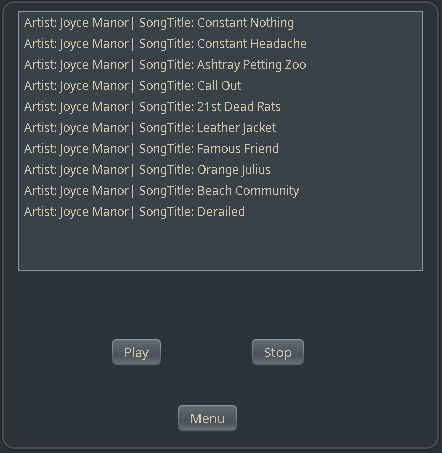
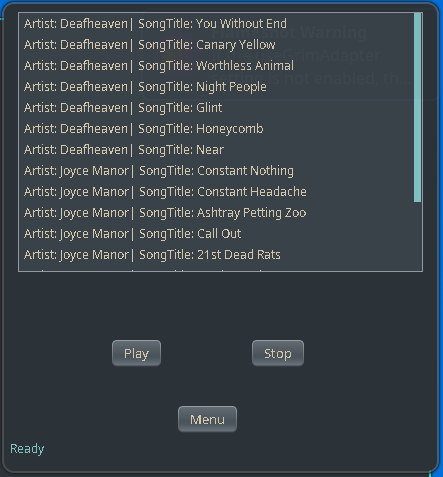
quality-of-life-changes

diff --git a/src/Mp3Frame.java b/src/Mp3Frame.java
@@ -5,6 +5,9 @@ import java.io.FileNotFoundException;
 import javax.swing.DefaultListModel;
 import java.util.Collections;
 import java.awt.Color;
+import javax.swing.JLabel;
+import javax.swing.SwingUtilities;
+import javax.swing.JButton;
 
 /**
  * This class was partially created with the NetBeans IDE.
@@ -12,17 +15,23 @@ import java.awt.Color;
  * @author ryandielhenn
  */
 public class Mp3Frame extends javax.swing.JFrame {
-    private static final Color BG_1 = new Color(43, 51, 57);       // #2b3339 - main background
-    private static final Color BG_2 = new Color(57, 66, 72);       // Slightly lighter for buttons/inputs
-    private static final Color FG = new Color(211, 198, 170);      // #d3c6aa - text
-    private static final Color GREEN = new Color(167, 192, 128);   // #a7c080 - accent
-    private static final String UI_FONT = "Fira Code Nerd Font";
     private Thread playThread;
+    
+    private static final Color BG_1 = new Color(43, 51, 57);       // main background
+    private static final Color BG_2 = new Color(57, 66, 72);       // Slightly lighter for buttons/inputs
+    private static final Color FG = new Color(211, 198, 170);      // text
+    private static final Color GREEN = new Color(167, 192, 128);   // accent
+    private static final Color TEAL = new Color(128, 192, 192);
+    private static final String UI_FONT = "Fira Code Nerd Font";
+    private JLabel statusLabel;
     /**
      * Creates new form Mp3Frame
      */
     public Mp3Frame() {
         initComponents();
+        setTitle("Mp3Player");
+        java.awt.Dimension screenSize = java.awt.Toolkit.getDefaultToolkit().getScreenSize();
+        setLocation(screenSize.width - getWidth() - 4, 60);
         addWindowListener(new java.awt.event.WindowAdapter() {
             @Override
             public void windowClosing(java.awt.event.WindowEvent windowEvent) {
@@ -36,6 +45,8 @@ public class Mp3Frame extends javax.swing.JFrame {
      */
     private void initComponents() {
         // Initialize components
+        statusLabel = new JLabel("Ready");
+        statusLabel.setForeground(TEAL);
         mainPanel = new javax.swing.JPanel();
         menuPanel = new javax.swing.JPanel();
         jLabel1 = new javax.swing.JLabel();
@@ -144,7 +155,7 @@ public class Mp3Frame extends javax.swing.JFrame {
         songBtn.addActionListener(evt -> songBtnActionPerformed(evt));
         
         jLabel2.setFont(new java.awt.Font(UI_FONT, 0, 18));
-        jLabel2.setForeground(FG);
+        jLabel2.setForeground(GREEN);
         jLabel2.setHorizontalAlignment(javax.swing.SwingConstants.CENTER);
         jLabel2.setText("Sort By...");
         
@@ -190,7 +201,32 @@ public class Mp3Frame extends javax.swing.JFrame {
             }
         });
         jScrollPane1.setViewportView(songListPane);
-        
+       // Style the scrollbar
+        jScrollPane1.getVerticalScrollBar().setUI(new javax.swing.plaf.basic.BasicScrollBarUI() {
+            @Override
+            protected void configureScrollBarColors() {
+                this.thumbColor = TEAL;
+                this.trackColor = BG_2;
+            }
+            
+            @Override
+            protected JButton createDecreaseButton(int orientation) {
+                return createZeroButton();
+            }
+            
+            @Override
+            protected JButton createIncreaseButton(int orientation) {
+                return createZeroButton();
+            }
+            
+            private JButton createZeroButton() {
+                JButton button = new JButton();
+                button.setPreferredSize(new java.awt.Dimension(0, 0));
+                return button;
+            }
+        });
+
+    jScrollPane1.getVerticalScrollBar().setPreferredSize(new java.awt.Dimension(8, 0)); 
         playBtn.setText("Play");
         playBtn.setFont(new java.awt.Font(UI_FONT, 0, 13));
         playBtn.setBackground(BG_1);
@@ -253,14 +289,21 @@ public class Mp3Frame extends javax.swing.JFrame {
                 .addContainerGap()
                 .addComponent(mainPanel, javax.swing.GroupLayout.DEFAULT_SIZE, javax.swing.GroupLayout.DEFAULT_SIZE, Short.MAX_VALUE)
                 .addContainerGap())
+            .addGroup(layout.createSequentialGroup()
+                .addContainerGap()
+                .addComponent(statusLabel, javax.swing.GroupLayout.DEFAULT_SIZE, 400, Short.MAX_VALUE)
+                .addContainerGap())
+
         );
         layout.setVerticalGroup(
             layout.createParallelGroup(javax.swing.GroupLayout.Alignment.LEADING)
-            .addGroup(javax.swing.GroupLayout.Alignment.TRAILING, layout.createSequentialGroup()
+            .addGroup(layout.createSequentialGroup()
                 .addContainerGap()
                 .addComponent(mainPanel, javax.swing.GroupLayout.DEFAULT_SIZE, javax.swing.GroupLayout.DEFAULT_SIZE, Short.MAX_VALUE)
                 .addPreferredGap(javax.swing.LayoutStyle.ComponentPlacement.UNRELATED)
                 .addComponent(menuBtn)
+                .addPreferredGap(javax.swing.LayoutStyle.ComponentPlacement.RELATED)
+                .addComponent(statusLabel)
                 .addGap(14, 14, 14))
         );
     }
@@ -279,11 +322,20 @@ public class Mp3Frame extends javax.swing.JFrame {
                 CardLayout card = (CardLayout)mainPanel.getLayout();
                 card.show(mainPanel, "panelTwo");
             }catch (FileNotFoundException fnf){
-                //System.out.println(fnf.getStackTrace());
+                setStatus("Path not found");
             }
+        } else {
+            setStatus("Invalid path: " + absPathTextField.getText());
         }
-
     }  
+
+    private void setStatus(String message) {
+        SwingUtilities.invokeLater(() -> {
+            if (statusLabel != null) {
+                statusLabel.setText(message);
+            }
+        });
+    }
 
     /**
      * Method to handle user pressing the Menu button
@@ -362,10 +414,8 @@ public class Mp3Frame extends javax.swing.JFrame {
     // Add this as a class field at the top with your other variables
     private java.lang.Process currentProcess = null;
 
-    // Your playSong method
     private void playSong() {  
         stop();
-
         if (playThread != null && playThread.isAlive()) {
             try {
                 playThread.join(500);
@@ -373,11 +423,10 @@ public class Mp3Frame extends javax.swing.JFrame {
                 e.printStackTrace();
             }
         }
-
         index = songListPane.getSelectedIndex();
         
         if (index == -1) {
-            //System.out.println("No song selected");
+            setStatus("No song selected");
             return;
         }
         
@@ -389,13 +438,24 @@ public class Mp3Frame extends javax.swing.JFrame {
                     try { 
                         MP3File fileAtIndex = songList.get(index);
                         String path = fileAtIndex.getAbsPath();
+                        String fileName = new File(path).getName();
+                        
+                        setStatus("Playing: " + fileName);
+                        
                         ProcessBuilder pb = new ProcessBuilder("mpg123", "-q", path);
                         currentProcess = pb.start();
-                        // Wait for the process to finish
+                        
                         int exitCode = currentProcess.waitFor();
-                        //System.out.println("Finished playing (exit code: " + exitCode + ")");
+                        
+                        // Only show status if we're still running
+                        if (isRunning && index < songList.size() - 1) {
+                            setStatus("Ready");
+                        } else if (isRunning) {
+                            setStatus("Playlist finished");
+                        }
                         
                     } catch(Exception e) {
+                        setStatus("Error playing song");
                         e.printStackTrace();
                     }
                     
@@ -407,7 +467,6 @@ public class Mp3Frame extends javax.swing.JFrame {
         };
         playThread.start();         
     }
-
     /**
     * Method to handle user pressing the Stop button
     */

diff --git a/README.md b/README.md
@@ -10,6 +10,15 @@ make run
 
 # Clean up compiled files
 make clean
+
+# Install to ~/.local/bin/mp3
+make install
+
+# Run program
+mp3
+
+# Uninstall from ~/.local/bin
+make uninstall
 ```
 
 ## Screenshots
